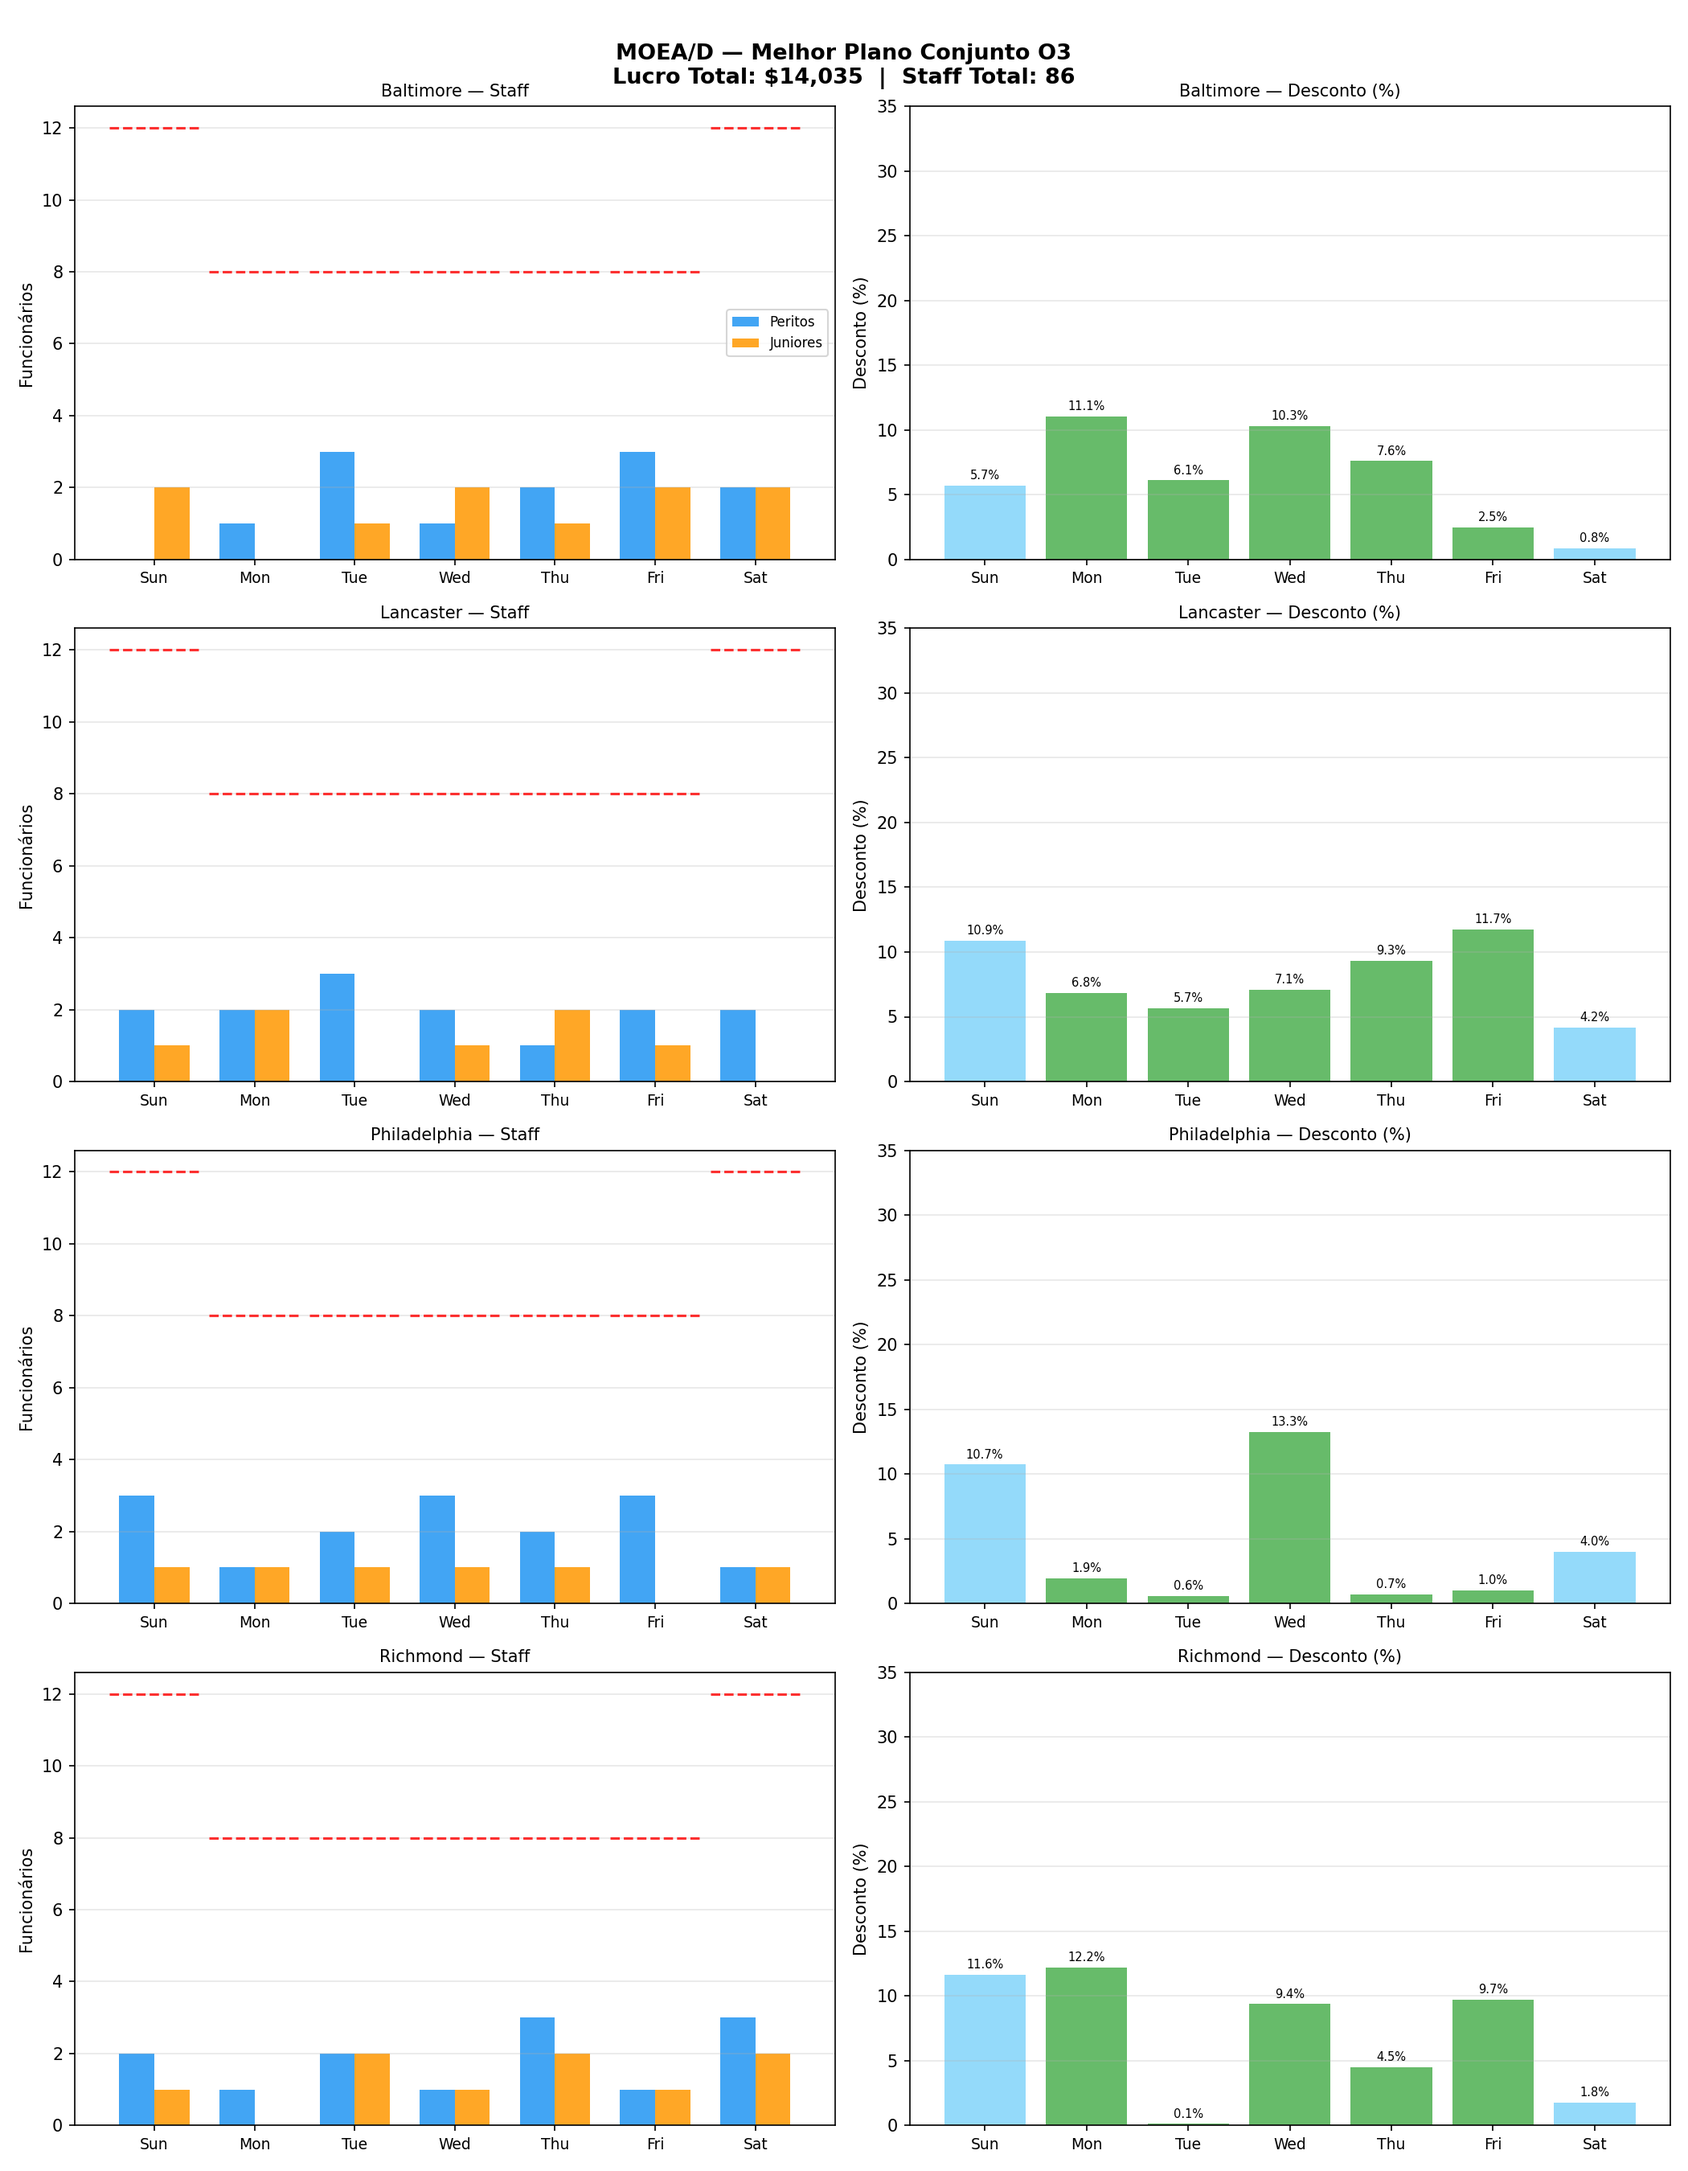
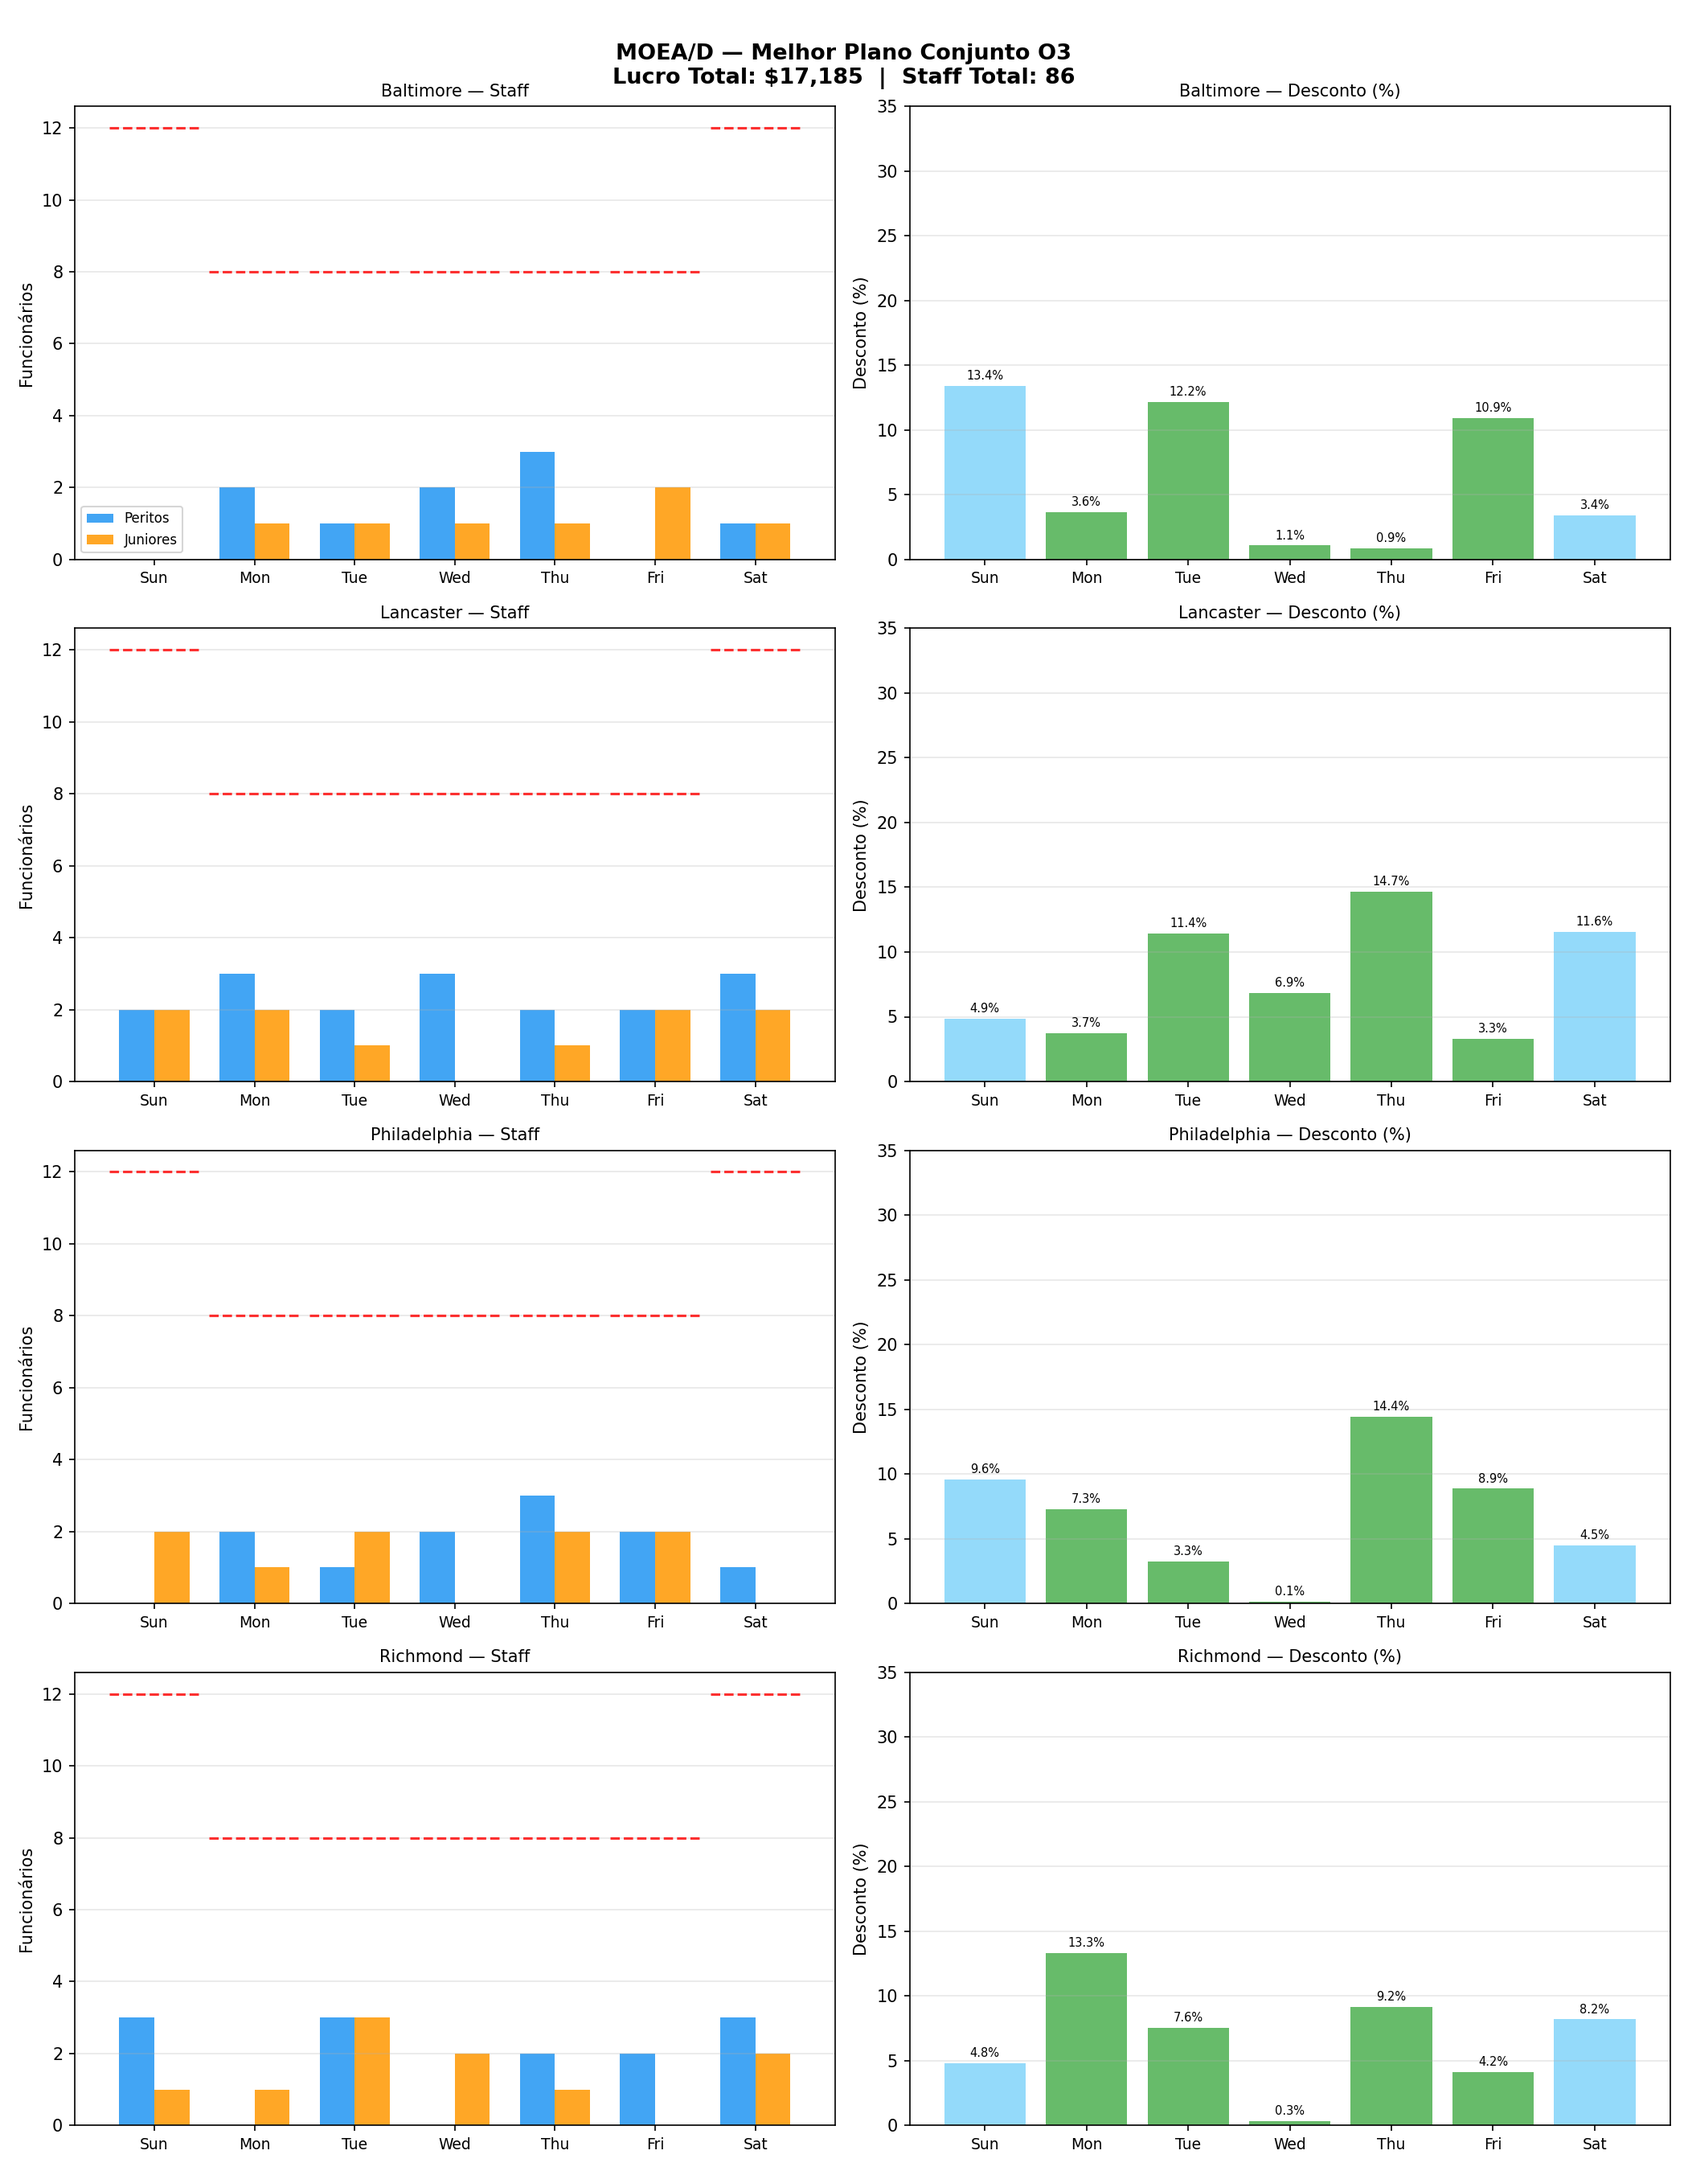
fix: correct IsWeekend column name in load_last_week; re-run O3 N_MAX_GEN=300
Column in all_stores_processed.csv is 'IsWeekend', not 'is_weekend'.
Updates joint_o3 results to the full 300-generation production run:
  MOEA/D     96 Pareto solutions | O2 max profit $17,185 | staff 86
  U-NSGA-III 64 Pareto solutions | O2 max profit $37,135 | staff 85

diff --git a/scripts/run_joint_optimization_o3.py b/scripts/run_joint_optimization_o3.py
@@ -82,7 +82,7 @@ def load_last_week(csv_path: str) -> tuple:
             )
 
         store_forecasts.append(sdf["Num_Customers"].astype(int).tolist())
-        store_weekends.append(sdf["is_weekend"].astype(bool).tolist())
+        store_weekends.append(sdf["IsWeekend"].astype(bool).tolist())
 
         if day_labels is None:
             day_labels  = [d.strftime("%a") for d in sdf["Date"]]
